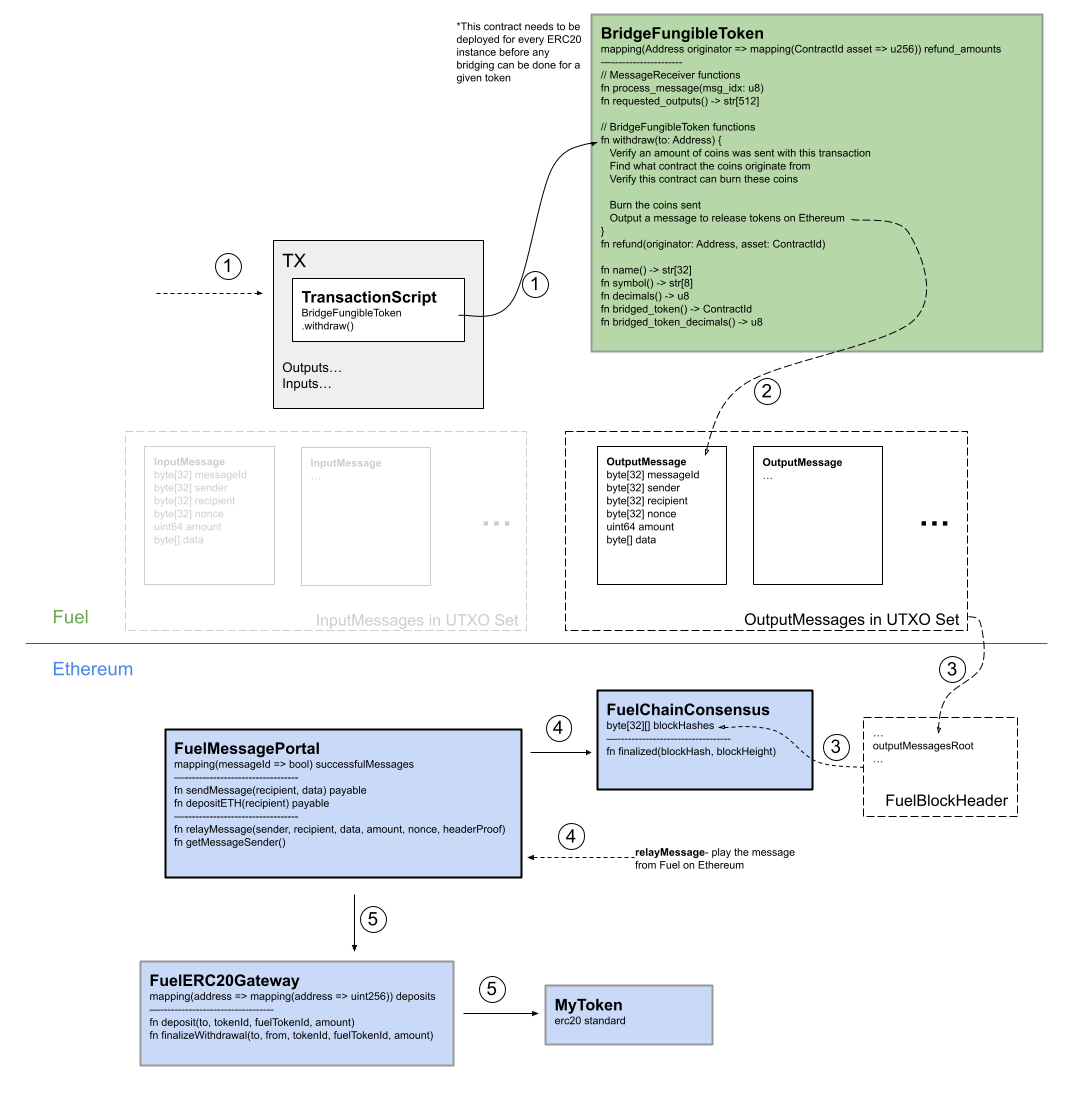
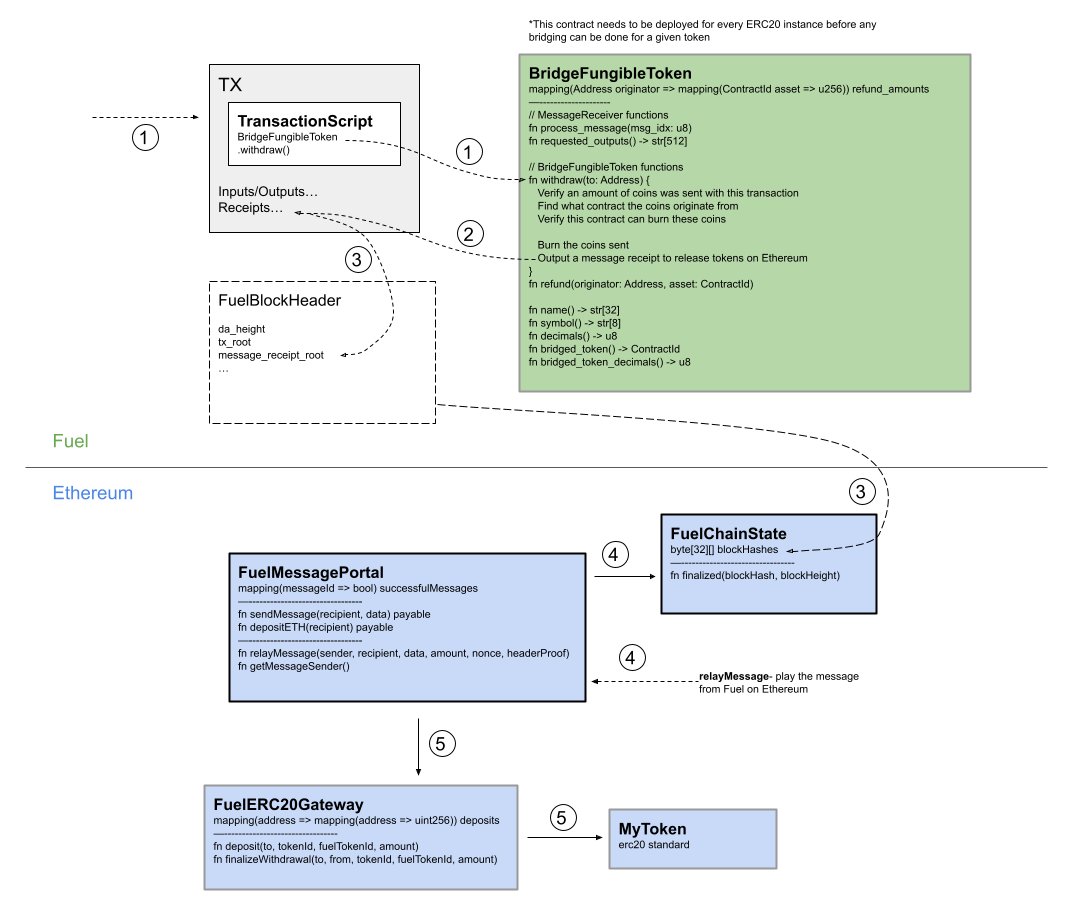
updated design docs

diff --git a/docs/design_docs.md b/docs/design_docs.md
@@ -24,9 +24,9 @@ The ETH bridge facilitates the transfer of ETH from Ethereum to be represented a
 
 ### ETH Bridge Withdrawal
 
-1. User starts a withdrawal by creating a transaction that outputs an `OutputMessage` with a specific amount of ETH
-1. The `messageId`s from all `OutputMessages` in a block are put into a merkle tree and included in the block header, which gets committed to the `FuelChainConsensus` contracts via the consensus mechanism
-1. After a finalization period, the user calls `relayMessage` on the `FuelMessagePortal` contract with a block inclusion proof that is cross verified with the `FuelChainConsensus` contract, which then sends the ETH to the message recipient
+1. User starts a withdrawal by creating a transaction that creates a `MessageOut` receipt, via the `SMO` opcode, with a specific amount of ETH
+1. The `messageId`s from all `MessageOut` receipts in a block are put into a merkle tree and included in the block header, which gets committed to the `FuelChainState` contract
+1. After a finalization period, the user calls `relayMessage` on the `FuelMessagePortal` contract with a block inclusion proof that is cross verified with the `FuelChainState` contract, which then sends the ETH to the message recipient
 
 ![ETH Withdrawal Diagram](/docs/imgs/FuelMessagingETHWithdraw.png)
 
@@ -38,9 +38,9 @@ The ERC-20 bridge facilitates the transfer of ERC-20 tokens from Ethereum to be 
 
 1. User starts a deposit by calling the `deposit()` function on the `FuelERC20Gateway` (after they have approved token transfer to `FuelERC20Gateway`)
 1. The `FuelERC20Gateway` transfers tokens to itself to custody while they are bridged
-1. The `FuelERC20Gateway` creates a message in the `FuelMessagePortal` to be relayed on Fuel with the `MessageToFungibleTokenPredicate` as the recipient so that anyone can spend the `InputMessage` on the user's behalf but with guarantees that the spending transaction correctly relays the message data
+1. The `FuelERC20Gateway` creates a message in the `FuelMessagePortal` to be relayed on Fuel with the `MessageToContractPredicate` as the recipient so that anyone can spend the `InputMessage` on the user's behalf but with guarantees that the spending transaction correctly relays the message data
 1. The Fuel client sees an outgoing message event emitted on the `FuelMessagePortal` and adds a corresponding `InputMessage` to the UTXO set with the designated recipient predicate
-1. A transaction is built and submitted by either the user or a third party that meets the requirements of the `MessageToFungibleTokenPredicate` recipient
+1. A transaction is built and submitted by either the user or a third party that meets the requirements of the `MessageToContractPredicate` recipient
 1. A single call is made from the transaction script to the intended target Fuel token contract specified in the messages data field. This function verifies the sender of the `InputMessage`, parses the data from the `InputMessage` data field and mints the appropriate amount of tokens
 
 ![ERC20 Deposit Diagram](/docs/imgs/FuelMessagingERC20Deposit.png)
@@ -48,9 +48,9 @@ The ERC-20 bridge facilitates the transfer of ERC-20 tokens from Ethereum to be 
 ### ERC-20 Bridge Withdrawal
 
 1. User starts a withdrawal by calling `withdraw` on the token specific `BridgeFungibleToken` contract, sending the coins to withdraw along with it
-1. The `BridgeFungibleToken` contract looks to see what coins it was sent, burns them and then creates an `OutputMessage` via the `SMO` opcode
-1. The `messageId`s from all `OutputMessages` in a block are put into a merkle tree and included in the block header, which gets committed to the `FuelChainConsensus` contracts via the consensus mechanism
-1. After a finalization period, the user calls `relayMessage` on the `FuelMessagePortal` contract with a block inclusion proof that is cross verified with the `FuelChainConsensus` contract, which then calls to the `FuelERC20Gateway` with the abi specified in the message data
+1. The `BridgeFungibleToken` contract looks to see what coins it was sent, burns them and then creates a `MessageOut` receipt via the `SMO` opcode
+1. The `messageId`s from all `MessageOut` receipts in a block are put into a merkle tree and included in the block header, which gets committed to the `FuelChainState` contract
+1. After a finalization period, the user calls `relayMessage` on the `FuelMessagePortal` contract with a block inclusion proof that is cross verified with the `FuelChainState` contract, which then calls to the `FuelERC20Gateway` with the abi specified in the message data
 1. The `FuelERC20Gateway` verifies it’s being called by the `FuelMessagePortal` and releases the specified amount of tokens to the specified address
 
 ![ERC20 Withdrawal Diagram](/docs/imgs/FuelMessagingERC20Withdraw.png)
